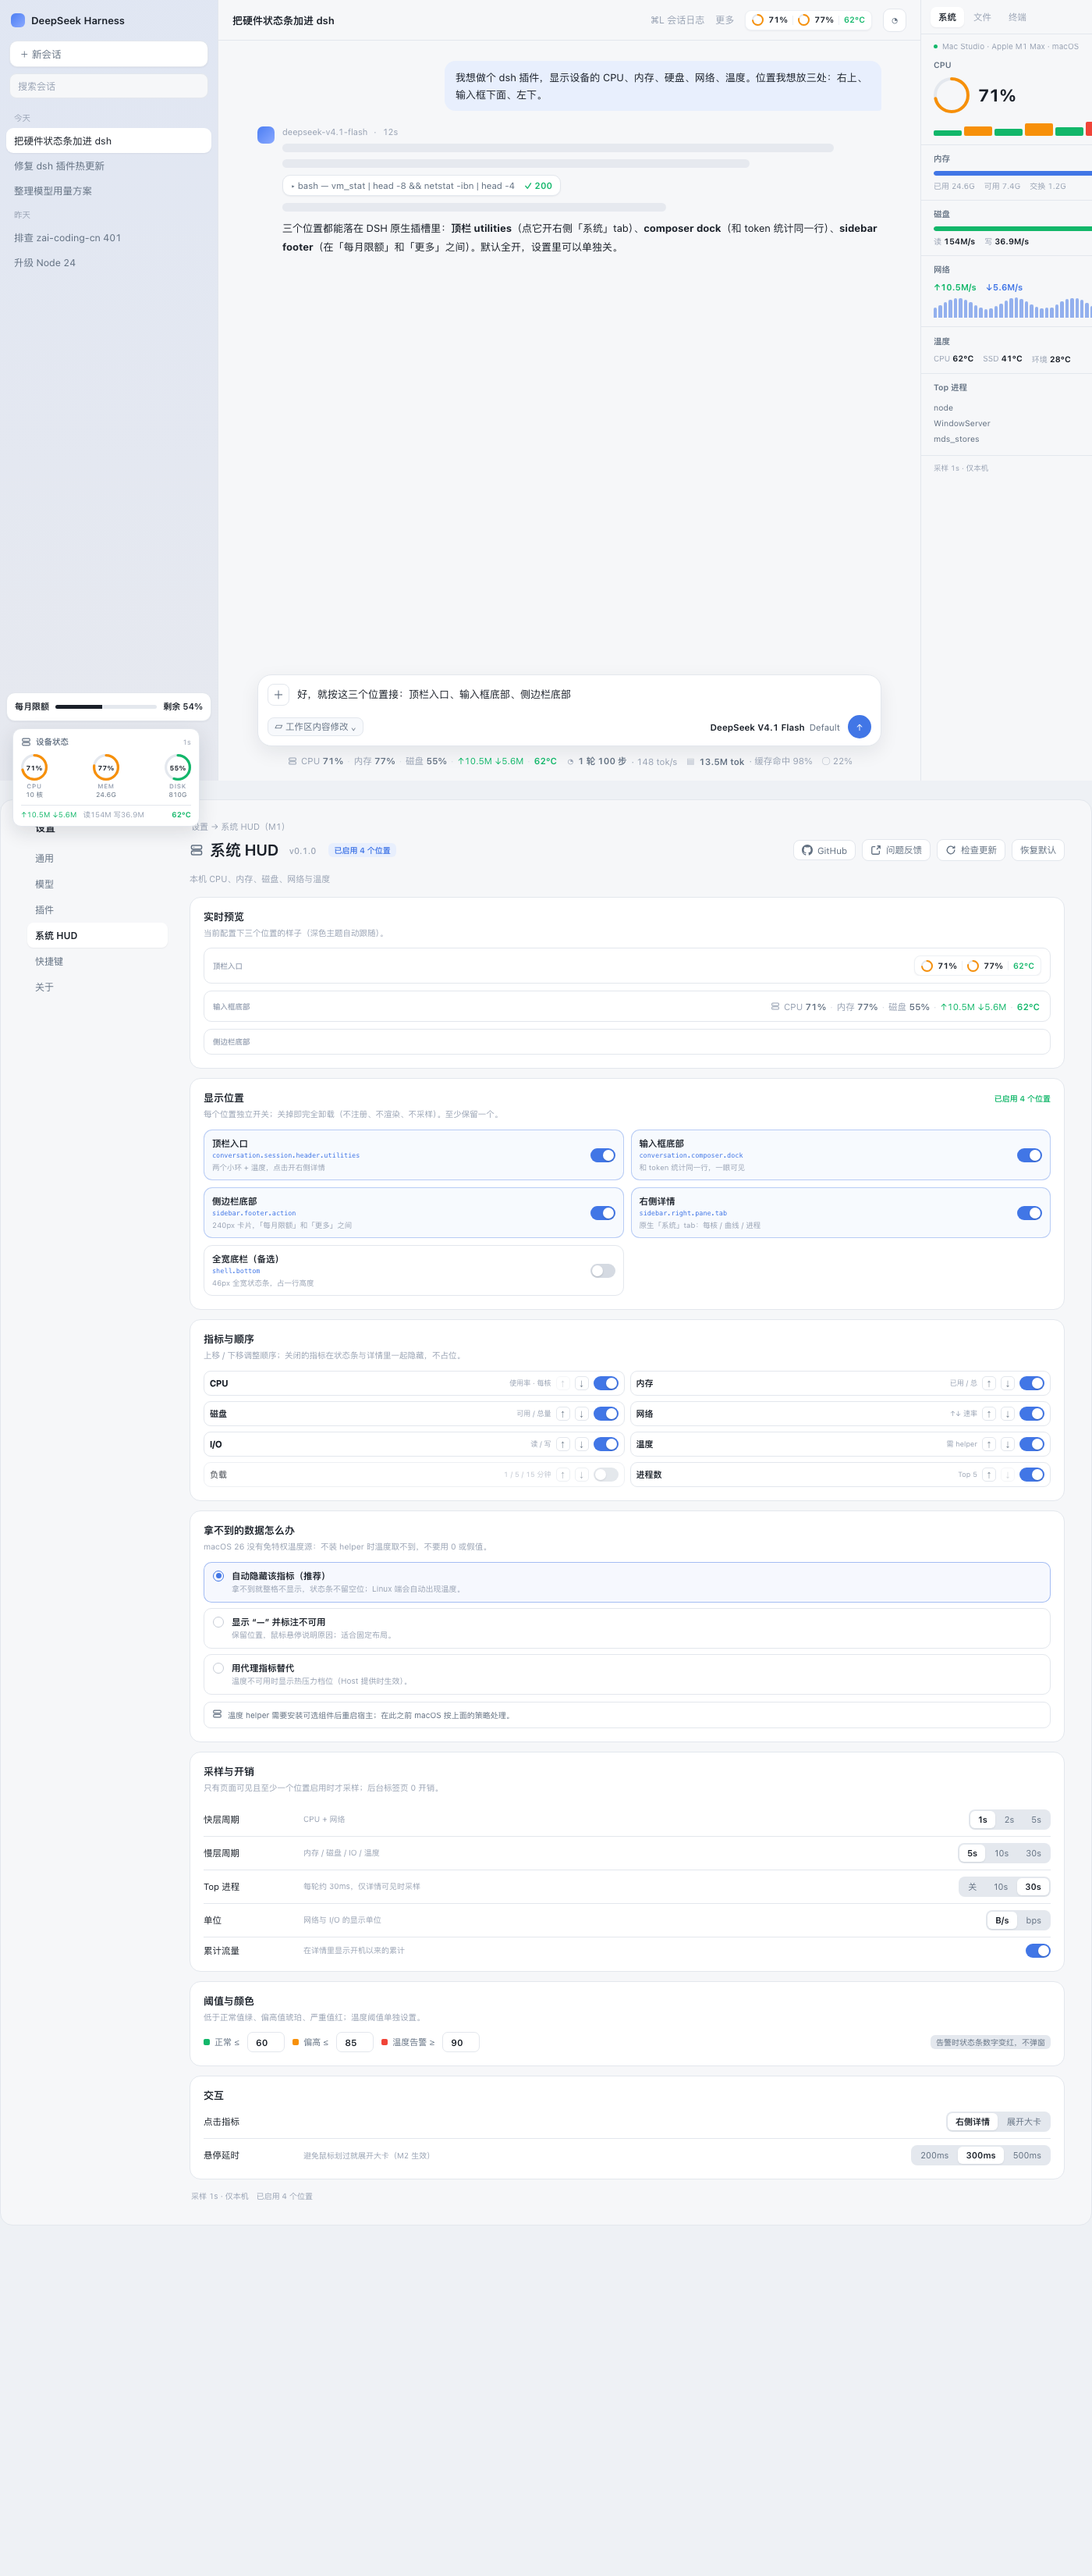
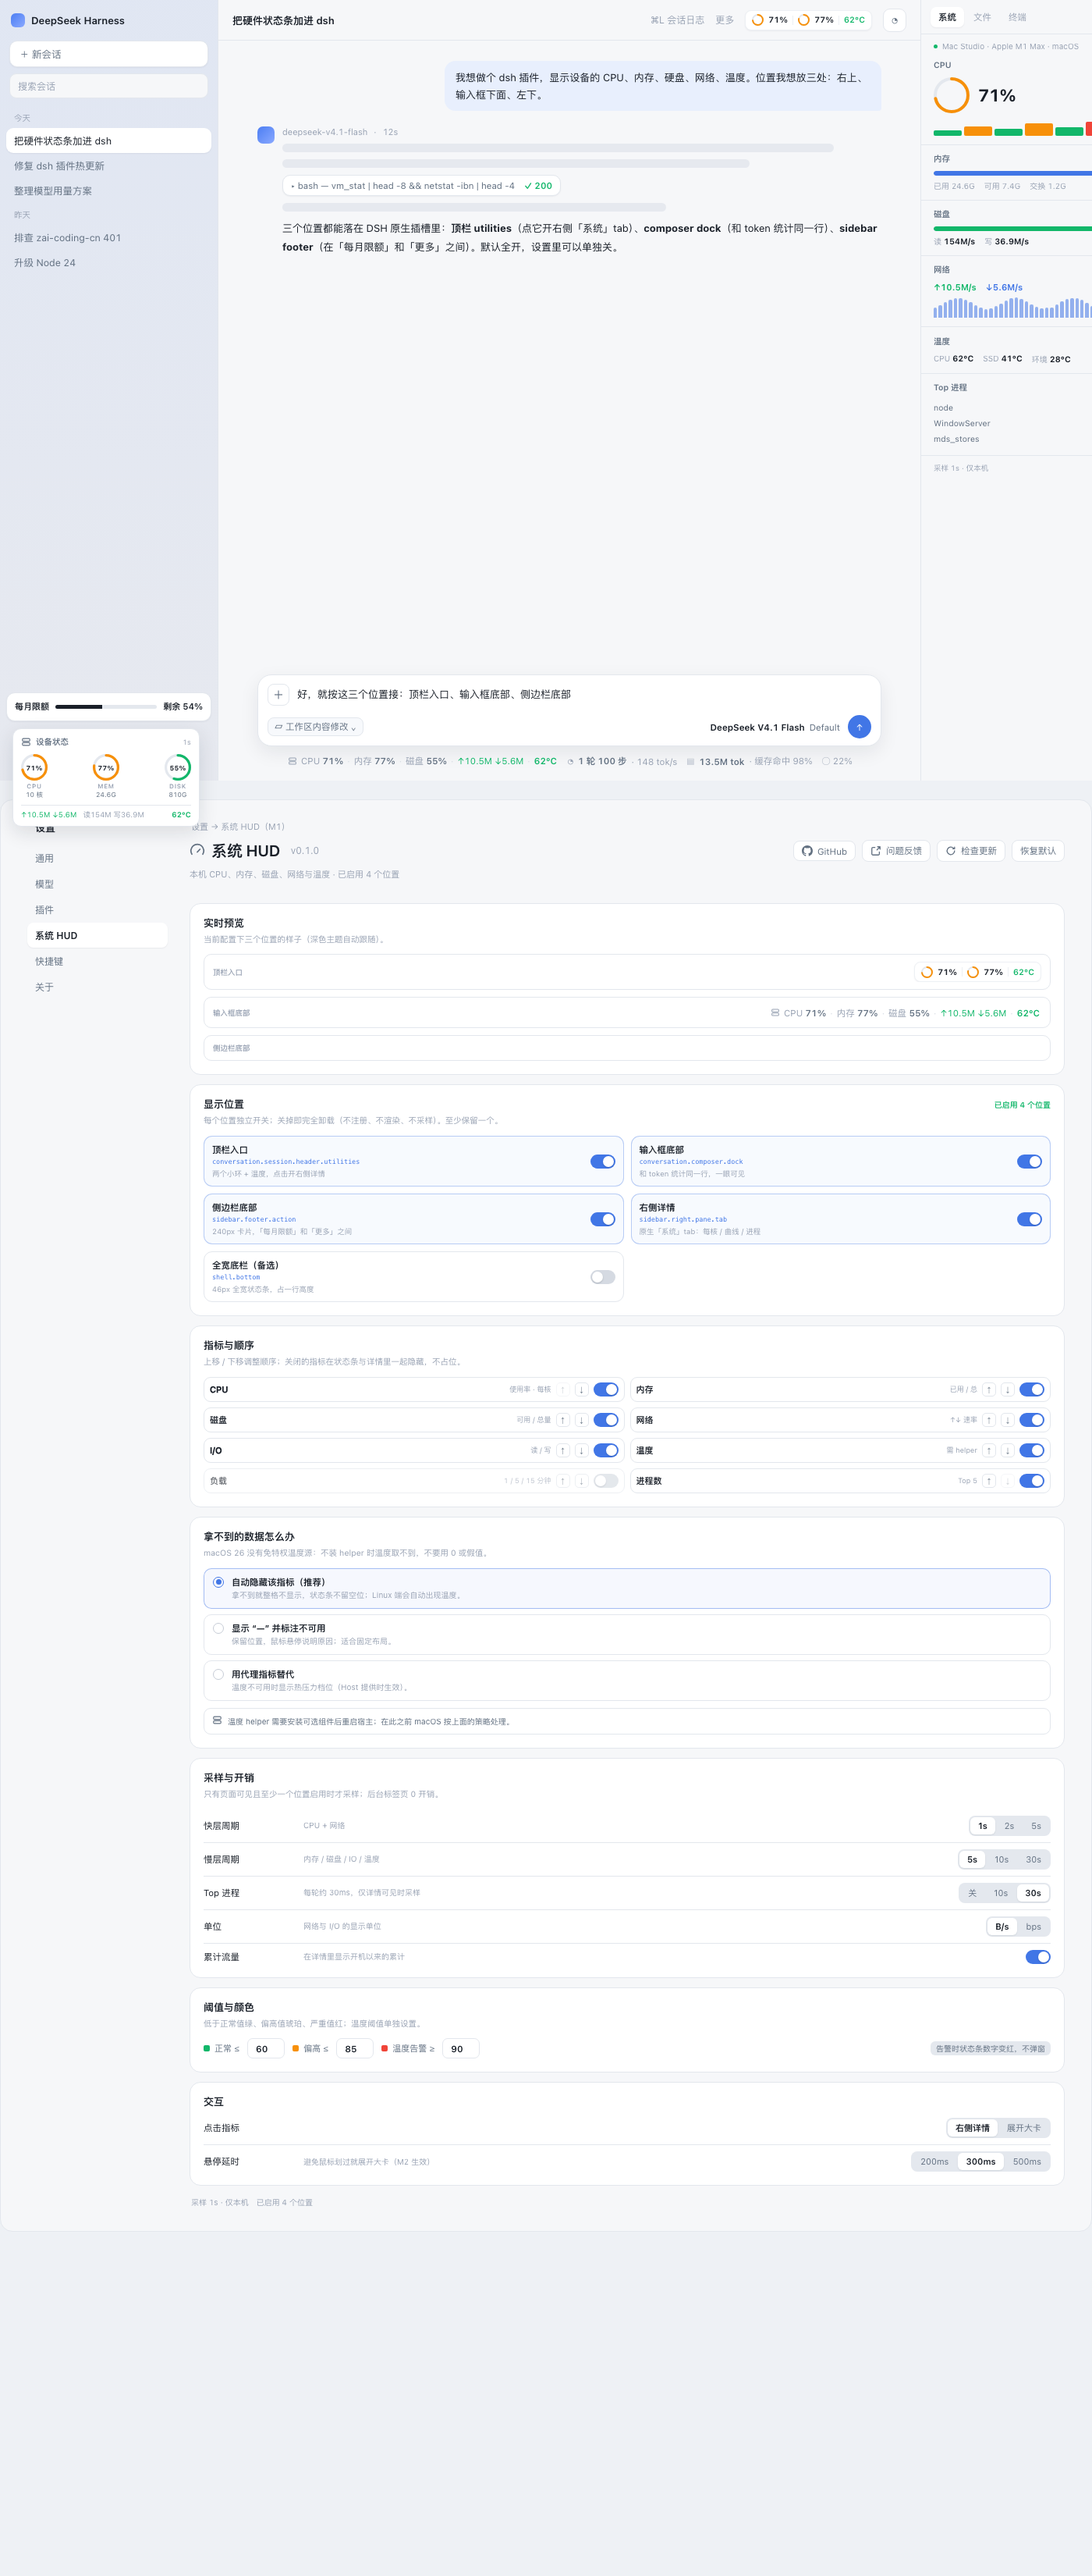
fix(settings): 标题与按钮同一行 + 用 DSH primitives gauge 图标
- 头部改 title-row：标题+版本左、操作按钮右（nowrap），已启用位置数移到描述行，避免换行
- 图标改用 @deepseek-ai/dsh-client-ui-primitives IconGaugeOutlineRegular（无则退回自带 gauge）
- 补真实宿主设置页截图

diff --git a/lib/client.js b/lib/client.js
@@ -794,10 +794,15 @@ window.__ModuleLoader__.load({
 .huds-updatepanel{position:fixed;z-index:1000;top:50%;left:50%;transform:translate(-50%,-50%);width:min(520px,calc(100vw - 48px));max-height:80vh;overflow:auto;background:var(--dsw-alias-bg-layer-2,#fff);border-radius:14px;box-shadow:var(--dsw-elevation-modal,0 24px 64px rgba(0,0,0,.28));padding:18px 20px;display:flex;flex-direction:column;gap:12px}
 .huds-updhead{display:flex;align-items:center;justify-content:space-between;font-size:15px;font-weight:650}
 .huds-pclose{border:0;background:transparent;font-size:18px;line-height:1;color:var(--dsw-alias-label-tertiary,#98a2b3);cursor:pointer}
-.huds-shead{display:flex;align-items:center;gap:10px;margin-bottom:14px;flex-wrap:wrap}
-.huds-shead .huds-stitle{font-size:20px;line-height:28px;font-weight:600;margin:0}
-.huds-shead .huds-spill{font-size:10px;color:var(--dsw-alias-state-business-primary,#4176e6);background:var(--dsw-alias-state-business-tertiary,#e8effd);border-radius:6px;padding:2px 7px;font-weight:600;white-space:nowrap}
-.huds-shead .huds-sactions{margin-left:auto;display:flex;align-items:center;gap:8px}
+.huds-shead{display:flex;flex-direction:column;gap:6px;margin-bottom:14px;min-width:0}
+.huds-title-row{display:flex;align-items:center;gap:12px;min-width:0;flex-wrap:nowrap}
+.huds-stitle{display:flex;align-items:center;gap:8px;font-size:20px;line-height:28px;font-weight:600;margin:0;min-width:0;white-space:nowrap;color:var(--dsw-alias-label-primary,#191f28)}
+.huds-stitle .huds-icon{color:var(--dsw-alias-label-secondary,#637182);flex:none}
+.huds-stitle-text{overflow:hidden;text-overflow:ellipsis}
+.huds-sver{font-size:12px;font-weight:400;color:var(--dsw-alias-label-caption,var(--dsw-alias-label-tertiary,#98a2b3));font-variant-numeric:tabular-nums;white-space:nowrap}
+.huds-sactions{margin-left:auto;display:flex;align-items:center;gap:8px;flex:none}
+.huds-sdesc{margin:0;font-size:13px;line-height:1.6;color:var(--dsw-alias-label-secondary,#637182)}
+.huds-sdesc-sep{color:var(--dsw-alias-label-tertiary,#98a2b3)}
 .huds-sdesc{font-size:11px;line-height:1.6;color:var(--dsw-alias-label-tertiary,#98a2b3);margin:0 0 14px}
 .huds-setcard{background:var(--dsw-alias-settings-card-fill,var(--dsw-alias-bg-layer-2,#fff));
   border:1px solid var(--dsw-alias-settings-card-stroke,var(--dsw-alias-border-l1,#e3e7ed));
@@ -1131,6 +1136,13 @@ window.__ModuleLoader__.load({
     const IcoRefresh = () => h('span', { className: 'huds-icon', style: { width: 14, height: 14 } },
       h('svg', { viewBox: '0 0 16 16', fill: 'none', stroke: 'currentColor', strokeWidth: 1.5, width: 14, height: 14, 'aria-hidden': true },
         h('path', { d: 'M13.5 8a5.5 5.5 0 1 1-1.6-3.9M13.5 2.5V5H11', strokeLinecap: 'round', strokeLinejoin: 'round' })))
+
+    // 设置页标题图标：优先用 DSH primitives 的 gauge 图标，保证和其他插件同一套图形语言
+    function IconGauge(props) {
+      const size = props.size || 18
+      if (P && typeof P.IconGaugeOutlineRegular === 'function') return h(P.IconGaugeOutlineRegular, { size })
+      return h(Glyph, { size })
+    }
 
     function Switch(props) {
       return h('button', {
@@ -1932,18 +1944,18 @@ window.__ModuleLoader__.load({
 
       return h('div', { className: 'huds-settings' },
         h('div', { className: 'huds-shead' },
-          h('div', { className: 'huds-stitlewrap' },
-            h(IconServer, { size: 18 }),
-            h('h2', { className: 'huds-stitle' }, t('title')),
-            h('span', { className: 'huds-sver' }, 'v' + ((update && update.current) || '—'))),
-          h('span', { className: 'huds-spill' }, t('activeRegions', { n: active })),
-          h('div', { className: 'huds-sactions' },
-            h(Btn, { variant: 'outline', onClick: () => openUrl(GITHUB) }, h(IcoGitHub), ' GitHub'),
-            h(Btn, { variant: 'outline', onClick: () => openUrl(GITHUB + '/issues') }, h(IcoLink), ' ' + t('feedback')),
-            h(Btn, { variant: 'outline', onClick: runCheck, disabled: checking }, h(IcoRefresh), ' ' + (checking ? t('checkingUpdate') : t('checkUpdate'))),
-            h(Btn, { variant: 'outline', onClick: () => { setNotice(''); store.saveConfig(DEFAULT_CONFIG) } }, t('reset')))),
+          h('div', { className: 'huds-title-row' },
+            h('h2', { className: 'huds-stitle' },
+              h(IconGauge, { size: 20 }),
+              h('span', { className: 'huds-stitle-text' }, t('title')),
+              h('span', { className: 'huds-sver' }, 'v' + ((update && update.current) || '—'))),
+            h('div', { className: 'huds-sactions' },
+              h(Btn, { variant: 'outline', onClick: () => openUrl(GITHUB) }, h(IcoGitHub), ' GitHub'),
+              h(Btn, { variant: 'outline', onClick: () => openUrl(GITHUB + '/issues') }, h(IcoLink), ' ' + t('feedback')),
+              h(Btn, { variant: 'outline', onClick: runCheck, disabled: checking }, h(IcoRefresh), ' ' + (checking ? t('checkingUpdate') : t('checkUpdate'))),
+              h(Btn, { variant: 'outline', onClick: () => { setNotice(''); store.saveConfig(DEFAULT_CONFIG) } }, t('reset')))),
+          h('p', { className: 'huds-sdesc' }, t('desc'), h('span', { className: 'huds-sdesc-sep' }, ' · '), t('activeRegions', { n: active }))),
         updateDialog,
-        h('p', { className: 'huds-sdesc' }, t('desc')),
         notice ? h('div', { className: 'huds-notice' }, notice) : null,
         h(SettingsCard, { title: t('groupPreview'), desc: t('groupPreviewDesc') }, preview),
         h(SettingsCard, { title: t('groupRegions'), desc: t('groupRegionsDesc'), right: t('activeRegions', { n: active }) },
